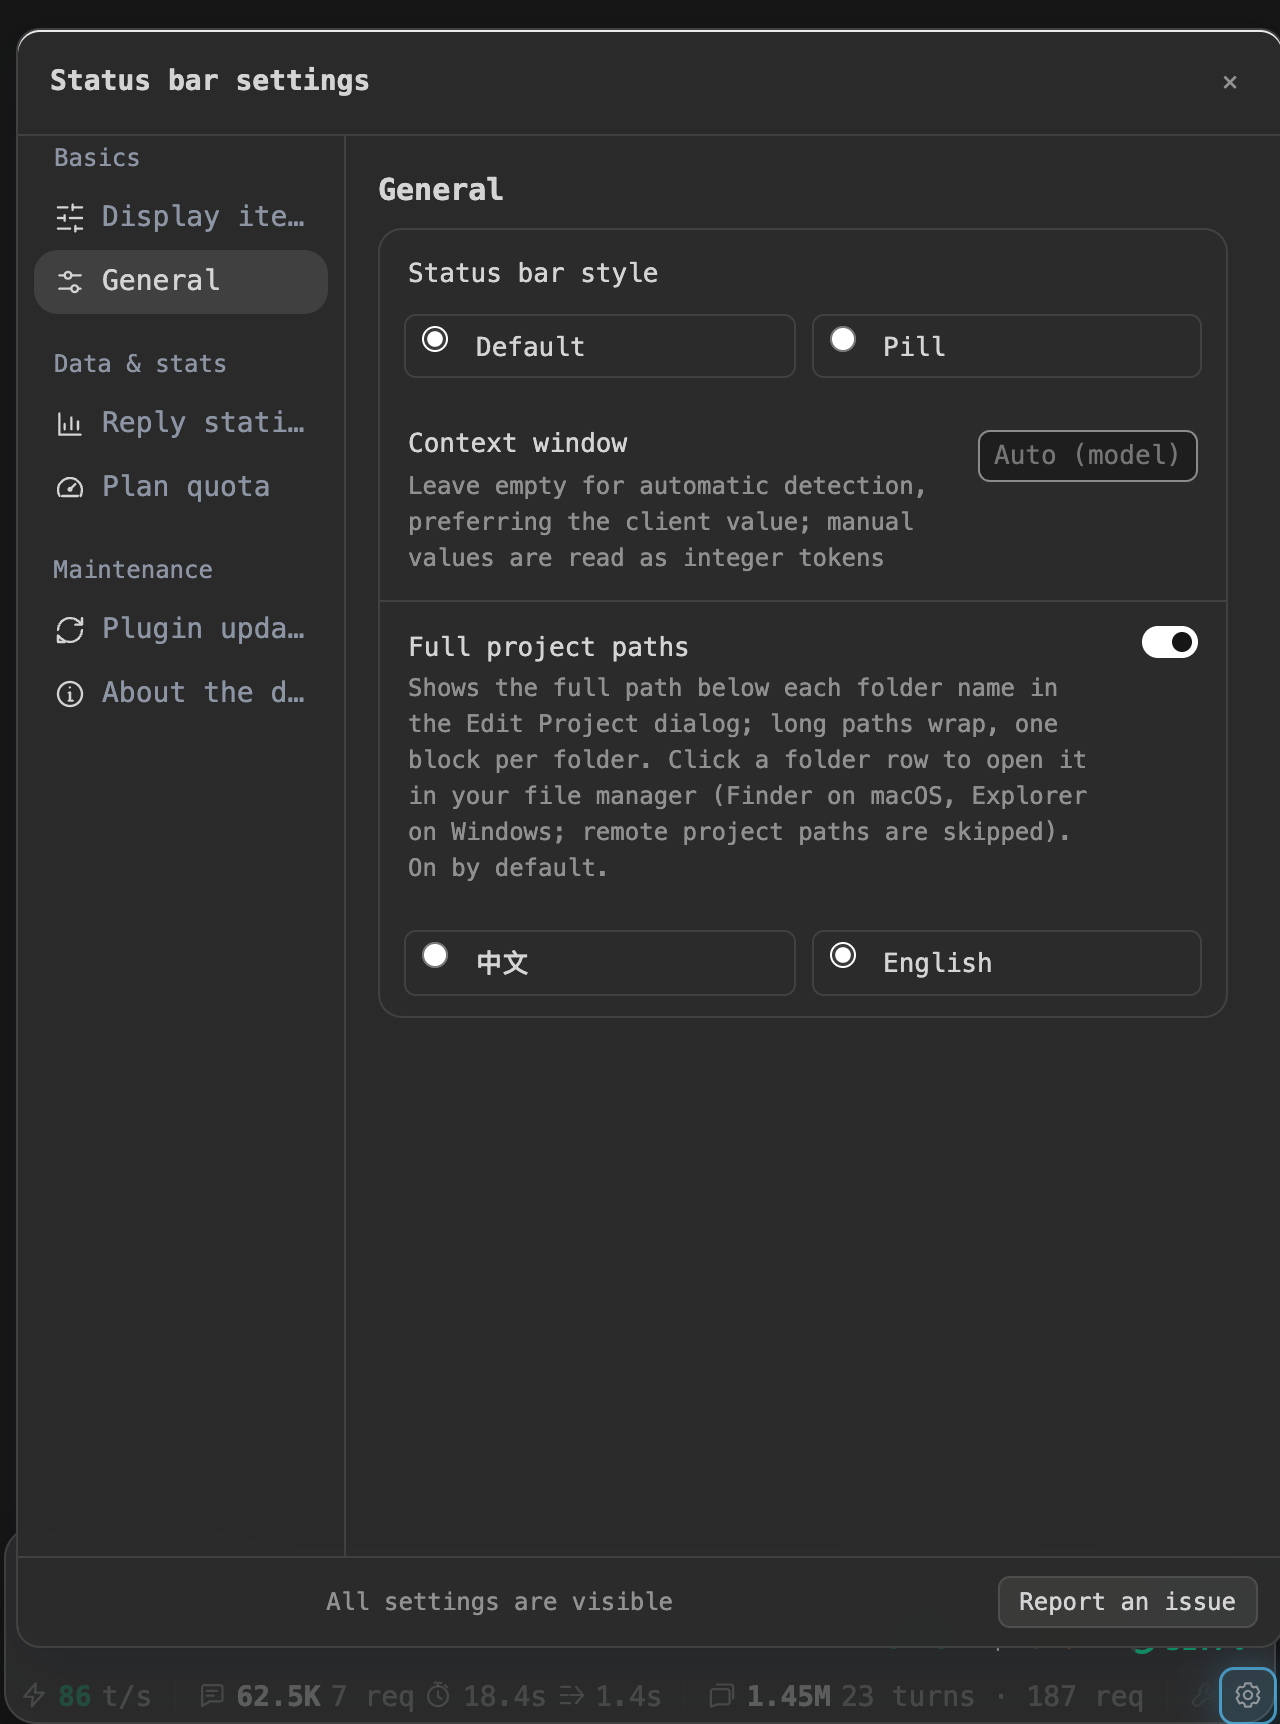
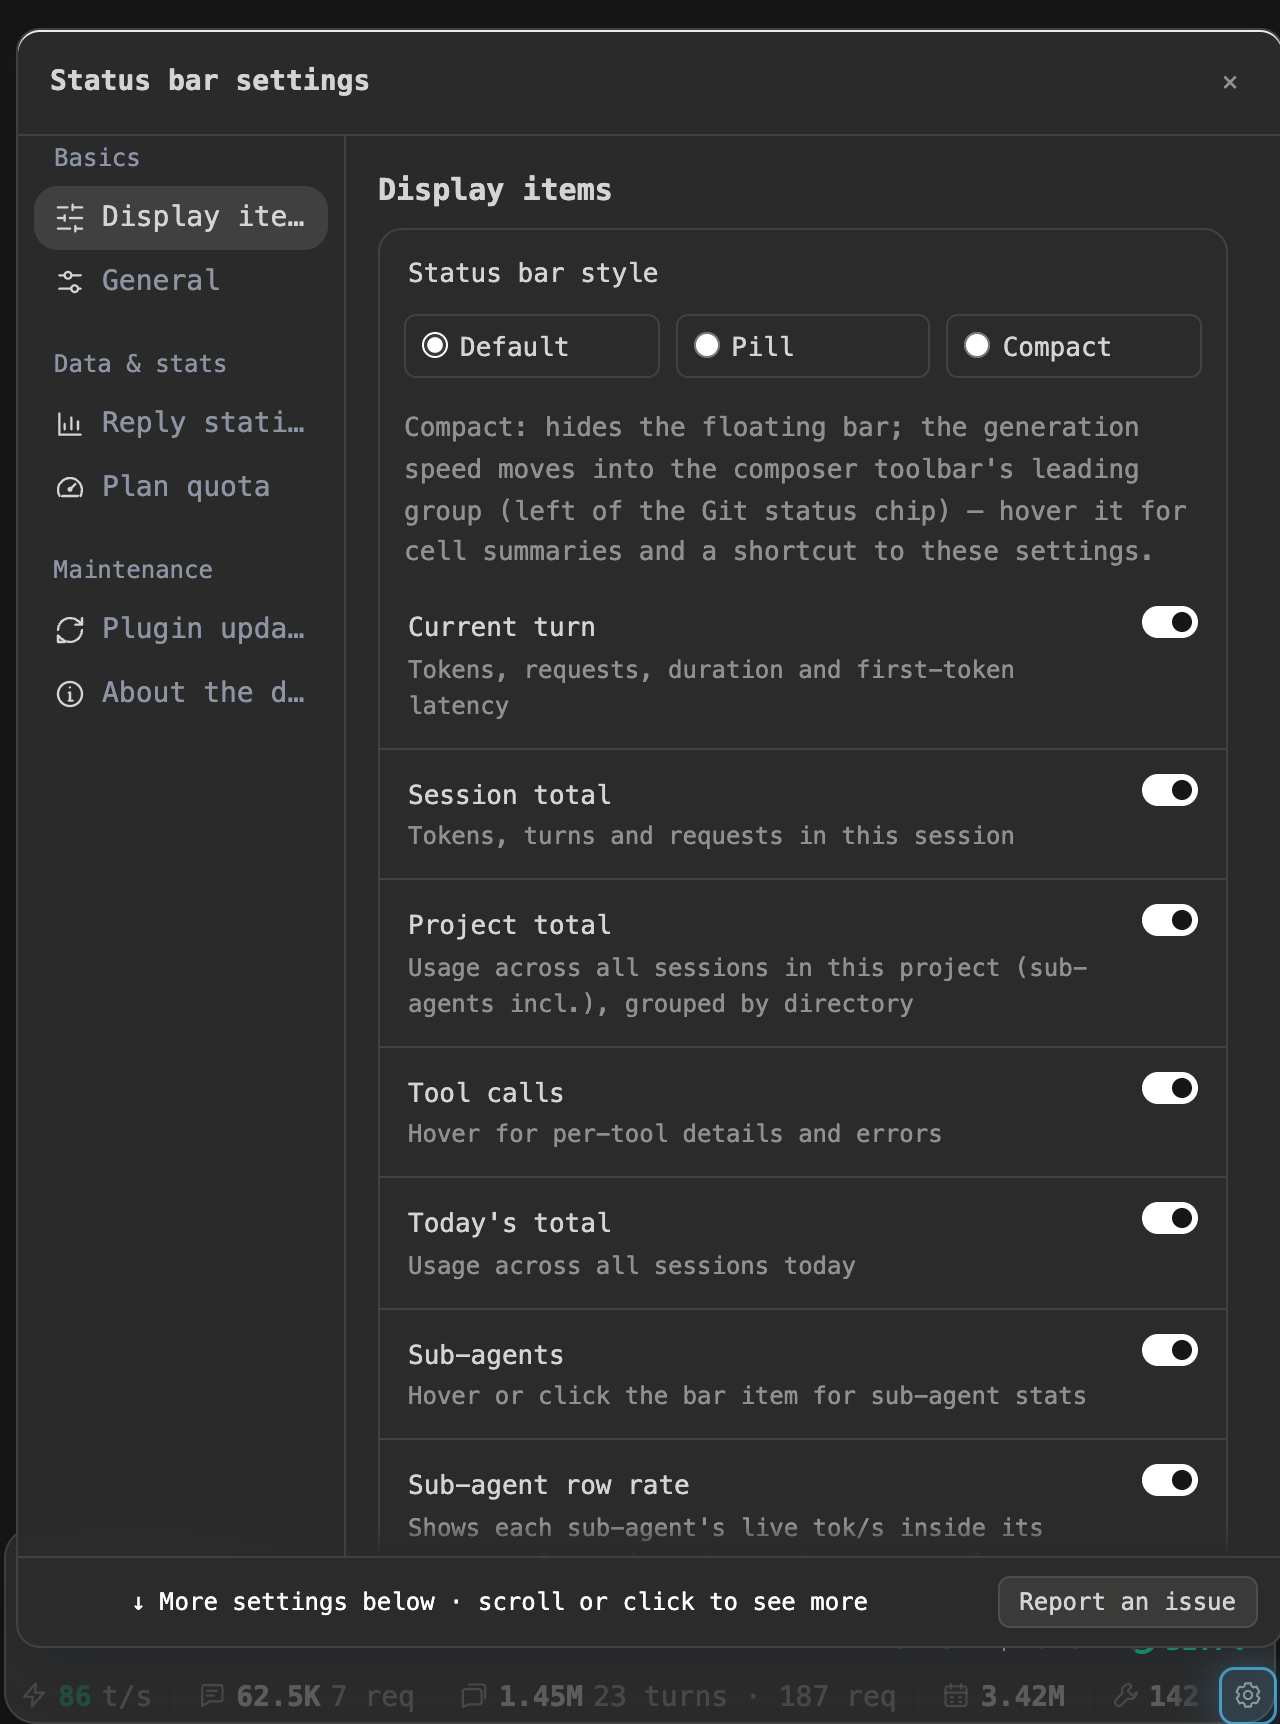
docs: 状态条样式分区路径随动 + tour 重拍（v219 随动）
- README×3/user-guide/overlay-ui 规则：桌面路径 ⚙ 通用 → ⚙ 状态条显示
 （Web 端为独立实现，路径措辞保持 ⚙ 通用 不变）
- tour item-8 重拍：设置面板呈现新分区归属（中英两轮全套重渲染）
- shoot.py 两处流水线适配：item-8 导航目标 general→display；
  item-7 点击改悬停——v217 统一浮层的悬停预览会盖住条目使点击失靶
 （既有失配，此前 item-7/8 无法重拍）

diff --git a/docs/tour/shoot.py b/docs/tour/shoot.py
@@ -3,7 +3,7 @@
 对 docs/tour/tour.html 的每个迷你窗口（真实 overlay.js 渲染）独立截图：
   hero 主视觉 1 张（聊天流 + 完整状态条 + 编号标注）
   item-1~6 真实悬停弹出 tooltip 明细
-  item-7 点击子代理条目弹出明细面板
+  item-7 悬停子代理条目弹出 v217 统一浮层
   item-8 点击 ⚙ 弹出设置面板
 全部交互走 Playwright 真实鼠标输入（CDP）。特写图按"内容包围盒"自动裁切
 （tooltip/状态条/卡片/面板的联合区域 + 14px 边距），去掉上方空白。
@@ -62,10 +62,11 @@ JOBS = [
     ("item-6.png", "?embed=1&hl=5",   640, 360,
      "window.__tourReady === true",
      ("hover", ".zu-main .it >> nth=4"), "#zusage-tip", True),
-    # 子代理：悬停 tooltip 只有汇总，点击弹出固定明细面板（v50 双层分工）→ 展示面板
+    # 子代理：v217 统一浮层（.zu-sub-pop）悬停预览与点击固定同貌——取悬停路径更稳
+    # （点击会先被自己触发的预览面板盖住条目而失靶）
     ("item-7.png", "?embed=1&hl=6",   640, 520,
      "window.__tourReady === true",
-     ("click", ".zu-sub"), ".panel.open", True),
+     ("hover", ".zu-sub"), ".zu-sub-pop.open", True),
     # ⚙：点击打开设置面板（视口加高让面板完整入镜）
     ("item-8.png", "?embed=1&hl=gear", 640, 900,
      "window.__tourReady === true",
@@ -112,7 +113,7 @@ with sync_playwright() as p:
                     raise RuntimeError(name + " did not render " + wait_sel) from exc
             page.wait_for_timeout(700)   # 定位/内容渲染落定
             if name == "item-8.png":
-                page.locator('.zu-navitem[data-sec="general"]').click()
+                page.locator('.zu-navitem[data-sec="display"]').click()   # v219：状态条样式移入「状态条显示」分区
                 page.wait_for_selector('.zu-theme-choice', state='visible', timeout=5000)
                 page.wait_for_timeout(300)
         else:

diff --git a/.zcode/rules/overlay-ui.md b/.zcode/rules/overlay-ui.md
@@ -16,7 +16,7 @@
 
 - 默认状态条优先挂输入卡片工具行之后，找不到工具行时才回退到 body 级 `position: fixed`；样式挂条内 `<style>`。药丸样式固定在所属输入卡片下方、按内容定宽并居中。几何避开输入框中心点命中检测，避免自遮挡闪烁；面板和 tooltip 挂 body。
 - 默认样式卡内随卡片拉伸，悬浮回退锁定卡片实测宽；超宽时先隐藏「本轮」「会话累计」「项目累计」的缓存命中率（tooltip 仍可见），再以右缘渐隐兜底。药丸样式以输入卡及视口宽度约束，窄时条面横向滚动，聚焦条目应滚入可视区域；条面不换行。Web 宽度策略独立。
-- ⚙ 通用的「状态条样式」持久化为 `zusage3.theme`（`default` / `pill` / `compact`，缺省与非法值回退 `default`），主题切换只写该键，同窗实例同步。药丸表面跟随所属输入卡的圆角、边框、背景以及 Highspeed/焦点状态；不改变数字单位、额度口径或工具栏 chip。
+- ⚙「状态条显示」分区卡首的「状态条样式」（v219 自「通用」移入）持久化为 `zusage3.theme`（`default` / `pill` / `compact`，缺省与非法值回退 `default`），主题切换只写该键，同窗实例同步。药丸表面跟随所属输入卡的圆角、边框、背景以及 Highspeed/焦点状态；不改变数字单位、额度口径或工具栏 chip。
 - **更新日志卡片（v202）**：⚙ 插件更新分区第二张卡（同款 `.zu-settings-card`）。默认日志按可靠状态选择：待重启=marker 版本（退 pendingRelease 目标、再退 updated latestVersion；身份无法确定明示不冒充）；安装中=安装目标；error+lastFailure=失败目标并标「未安装成功」；available/updated/current 各对应该版本。正文是转义优先的受限 Markdown（禁任意 HTML 与图片，链接仅 https 且点击走 openExternal，URL 带 600 上限）；「升级注意」类标题节（升级/注意/兼容/Breaking/Upgrade/Attention/Important/⚠）折叠时无论位置均完整可见并高亮（追加在预览之后，不重排原文顺序），其余内容折叠时只隐藏不丢弃并提示「还有更多」。用户选择历史版本后粘性不随轮询切回（「返回默认版本」入口在选择≠默认时显示；被默认追上即自然失效并显示真实状态）；正文按签名幂等重建（保滚动/焦点）；拉取失败只降级卡片，不拖垮面板（`__zusageDiag.notesErr`），也不影响检查更新/立即更新/重启按钮。渠道策略（2026-11-01 用户拍板「拿同号 Release 展示，忽略渠道」）：Release 渠道取本渠道 Release（verified）；market 源码渠道取注册仓库的**同号 Release 参考正文**（`verified:false`，meta 追加「参考：同号 Release，未核实与本渠道一致」、链接用参考措辞）；本地目录无仓库身份仍离线空状态。未检查（channel 未知）时当前已装版本即默认目标，直接拉取由主进程门控裁决。
 - **精简模式（compact，v146）**：条永久 `display:none` 但**保留 DOM**——chip 样式 `<style>` 与 ariaLive 都挂条内（`<style>` 隐藏仍全局生效），`heavy()` 每拍保条回 body 对抗 React 清子树（条丢=chip 样式全灭），`render()` 跳过条面重建但数据解析与 enhance 照跑；`track()` 早退只留诊断（`FATAL.mount.mode="compact"`）。速率 chip `.zu-tsb` 挂工具行前导区、git chip 左侧（git 在时插其前、不在时占其锚位=cua-entry 后方；两侧兜回收敛为 [锚][速率][git]，git 兜回容忍速率占相邻位防拉锯；判位用 nextElementSibling——nextSibling 会被文本节点打乱成每拍重插；前导区发现失败回落尾随区重置卡/额度组左侧），内容与条面速度 chip 同源，**无有效样本不渲染（用户拍板）**——代价是新会话首次请求前无设置入口；隐藏格数据收进速率 chip tooltip 的「状态条摘要」行（逐格开关 `state.show.*` 继续生效、子代理行点击开明细）+「打开设置」按钮（镜像齿轮开启分支）。已知限制：条隐藏后 ariaLive 不播报（`display:none` 后代），chip 仍有 aria-label。面板/子面板在精简下几何改锚输入卡/chip（条 rect 为 0）。
 - 字体一律引用宿主令牌：字号 `calc(var(--ui-font-size, 14px) ± Npx)`，字族 `var(--font-mono, <旧硬编码栈>)`，用 font longhand 不用简写；`--ui-font-size` 由宿主设置页运行时写在 `html` 内联样式。配色走宿主 `--color-*` 变量自动适配亮暗，引用前确认令牌存在。**例外（2026-10-28 用户规格定稿）**：额度 chip `.zu-quota` 与上下文百分比 `.zu-ctxpct` 两处**显式同字体**：`calc(var(--text-ui-base,var(--ui-font-size,14px)) - 1px)` + 加粗 + `var(--font-mono,…)` + tabular-nums（宿主默认基准 14px 时为 13px）——不靠继承（工具栏容器字号偏小、与带 `text-ui-base` 的按钮不等值，实测两段字号不一致），`.pct` 半加粗废止。其余条目（git chip、⚙ 面板等）仍走宿主令牌。

diff --git a/README.en.md b/README.en.md
@@ -47,7 +47,7 @@ A thin bar appears along the bottom of the chat window, roughly like this:
    Speed        This turn             Session total       Project total        Tools     Today    Sub-agents   Settings
 ```
 
-The example above shows the default style. In the desktop app, choose **Default**, **Pill** or **Compact** under ⚙ → General → Status bar style. The pill is centered below its composer, sized to its content and constrained in narrow windows. Compact hides the floating bar and moves the speed readout and cell summaries into the composer toolbar. On the Web, choose Default/Compact under ⚙ → General. [Style and switching details →](docs/user-guide.md#状态条样式) (Chinese)
+The example above shows the default style. In the desktop app, choose **Default**, **Pill** or **Compact** under ⚙ → Display items → Status bar style. The pill is centered below its composer, sized to its content and constrained in narrow windows. Compact hides the floating bar and moves the speed readout and cell summaries into the composer toolbar. On the Web, choose Default/Compact under ⚙ → General. [Style and switching details →](docs/user-guide.md#状态条样式) (Chinese)
 
 Here's what each part tells you:
 

diff --git a/README.md b/README.md
@@ -47,7 +47,7 @@ Windows / macOS · Python 3.8+ · [MIT](LICENSE)
   生成速度       本轮（这次提问）            会话累计（这次对话）      项目累计（本项目全部会话）    工具调用     今日合计    子智能体    设置
 ```
 
-以上是默认样式示意。桌面端可在 ⚙ → 通用 → 状态条样式选择「默认」「药丸」或「精简」；药丸在所属输入框下方居中，宽度随内容变化并受窄窗约束；精简隐藏悬浮条，把生成速度与摘要收进输入框工具行。Web 版可在 ⚙ → 通用 选择「默认样式/精简模式」。[样式与切换范围 →](docs/user-guide.md#状态条样式)
+以上是默认样式示意。桌面端可在 ⚙ → 状态条显示 → 状态条样式选择「默认」「药丸」或「精简」；药丸在所属输入框下方居中，宽度随内容变化并受窄窗约束；精简隐藏悬浮条，把生成速度与摘要收进输入框工具行。Web 版可在 ⚙ → 通用 选择「默认样式/精简模式」。[样式与切换范围 →](docs/user-guide.md#状态条样式)
 
 每一格说的是：
 

diff --git a/README.zh-CN.md b/README.zh-CN.md
@@ -47,7 +47,7 @@ Windows / macOS · Python 3.8+ · [MIT](LICENSE)
   生成速度       本轮（这次提问）            会话累计（这次对话）      项目累计（本项目全部会话）    工具调用     今日合计    子智能体    设置
 ```
 
-以上是默认样式示意。桌面端可在 ⚙ → 通用 → 状态条样式选择「默认」「药丸」或「精简」；药丸在所属输入框下方居中，宽度随内容变化并受窄窗约束；精简隐藏悬浮条，把生成速度与摘要收进输入框工具行。Web 版可在 ⚙ → 通用 选择「默认样式/精简模式」。[样式与切换范围 →](docs/user-guide.md#状态条样式)
+以上是默认样式示意。桌面端可在 ⚙ → 状态条显示 → 状态条样式选择「默认」「药丸」或「精简」；药丸在所属输入框下方居中，宽度随内容变化并受窄窗约束；精简隐藏悬浮条，把生成速度与摘要收进输入框工具行。Web 版可在 ⚙ → 通用 选择「默认样式/精简模式」。[样式与切换范围 →](docs/user-guide.md#状态条样式)
 
 每一格说的是：
 
